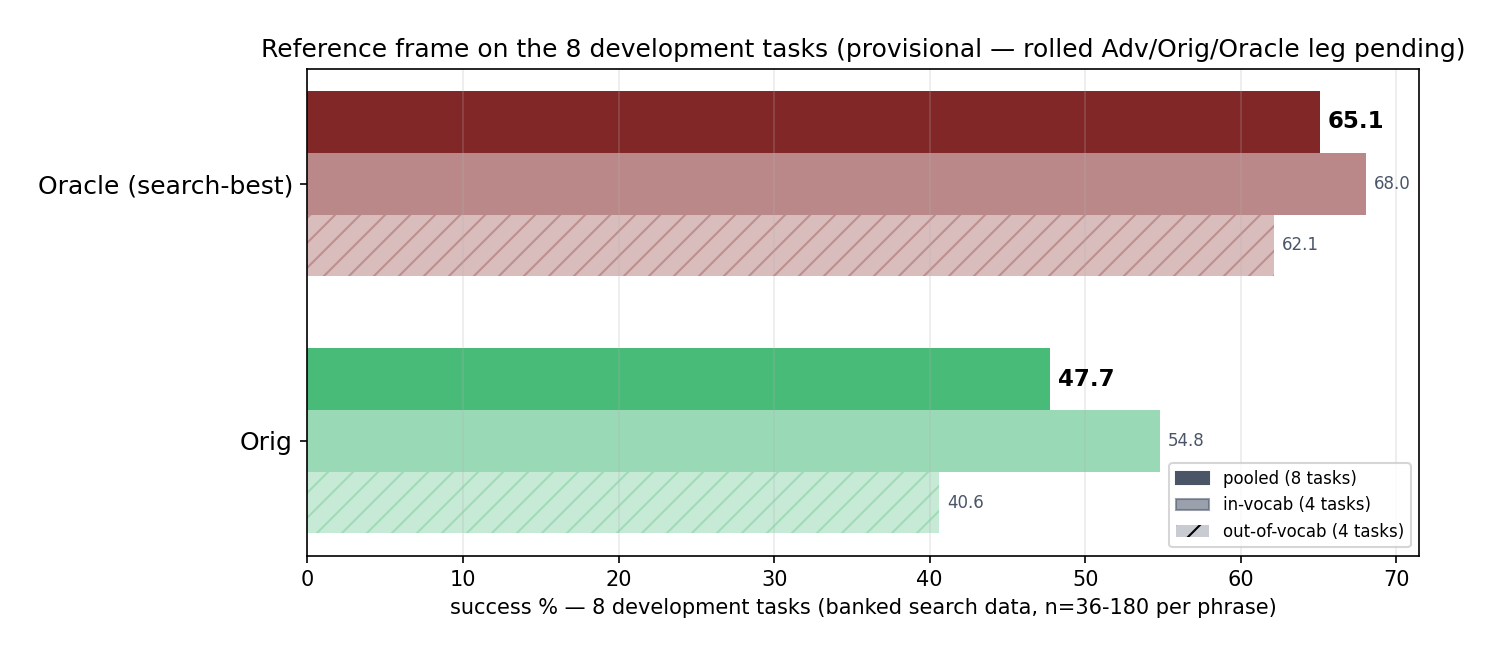
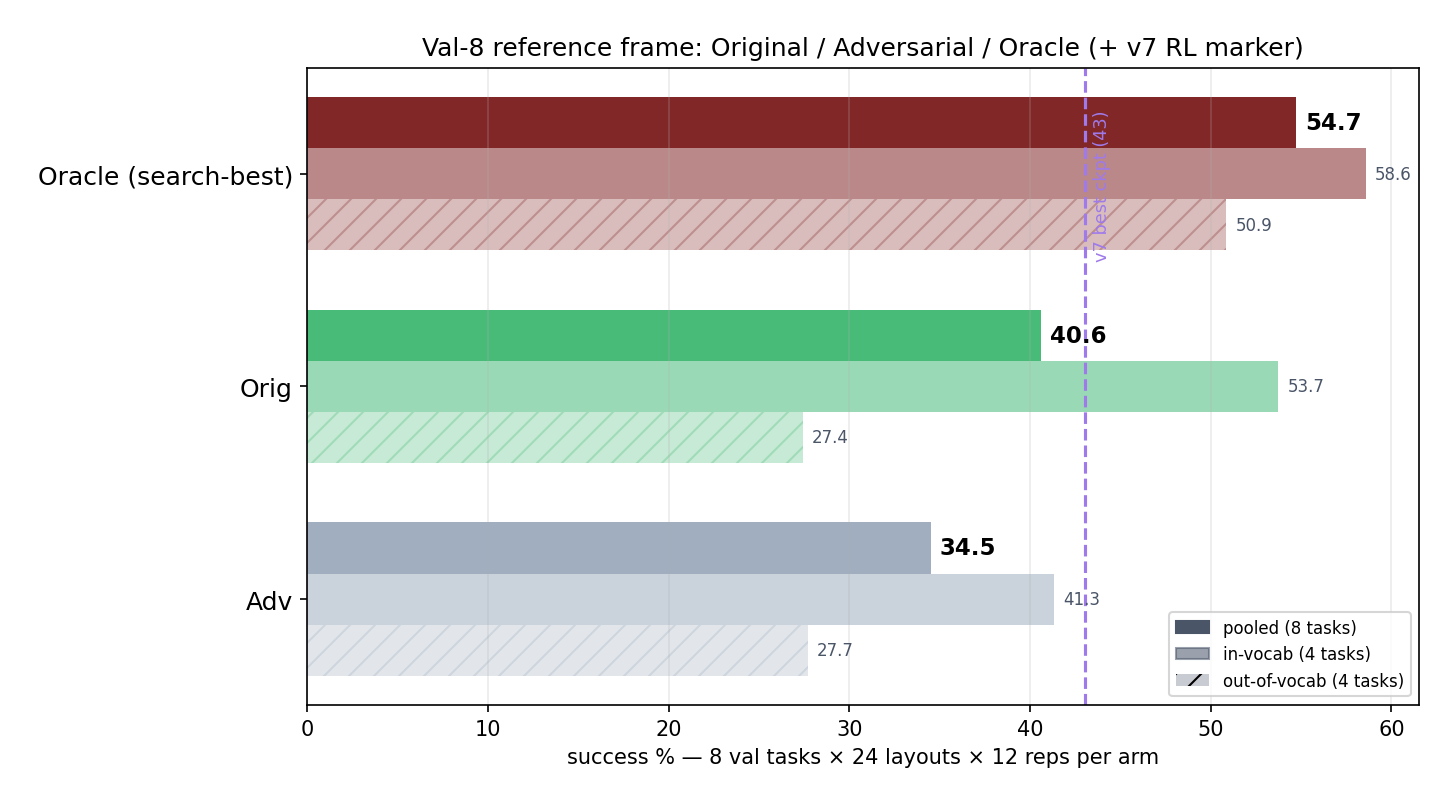
val-8 reference final: 3 rows at n=288 + v7 marker; provisional corrected

diff --git a/scripts/make_val8_reference.py b/scripts/make_val8_reference.py
@@ -1,68 +1,43 @@
 #!/usr/bin/env python3
-"""Val-8 reference chart (provisional, banked board data): Original phrasing vs
-Oracle (search-best) per stratum on the 8 development tasks — the comparison
-frame for RL rollout numbers. Mixed n (36-180) noted; the rolled reference leg
-(Orig+Adv+Oracle x 24x12) replaces this when it lands.
+"""Val-8 reference chart (ROLLED leg, n=288/task/arm): Original / Adversarial /
+Oracle on the 8 val tasks, strata split, with the v7 best-checkpoint marker.
+Reads results/sealed/val8_reference_x12.parquet + v7_dev8_backfill.jsonl.
 """
-import glob
 import json
 
 import matplotlib
 
 matplotlib.use("Agg")
 import matplotlib.pyplot as plt
+import pandas as pd
 from matplotlib.patches import Patch
 
-NOM = {"widowx_carrot_on_plate": "put carrot on plate",
-       "widowx_spoon_on_towel": "put the spoon on the towel",
-       "widowx_stack_cube": "stack the green block on the yellow block",
-       "widowx_put_eggplant_in_basket": "put eggplant into yellow basket",
-       "widowx_carrot_on_keyboard": "put carrot on keyboard",
-       "widowx_carrot_on_wheel": "put carrot on wheel",
-       "widowx_coke_can_on_ramekin": "put coke can on ramekin",
-       "widowx_coke_can_on_plate": "put coke can on plate"}
 IV = ["widowx_carrot_on_plate", "widowx_spoon_on_towel", "widowx_stack_cube",
       "widowx_put_eggplant_in_basket"]
-OO = [t for t in NOM if t not in IV]
-KEYMAP = {"spoon": "widowx_spoon_on_towel", "stack": "widowx_stack_cube",
-          "carrotplate": "widowx_carrot_on_plate", "eggplant": "widowx_put_eggplant_in_basket",
-          "keyboard": "widowx_carrot_on_keyboard", "wheel": "widowx_carrot_on_wheel",
-          "ramekin": "widowx_coke_can_on_ramekin", "cokeplate": "widowx_coke_can_on_plate"}
 
-boards = {}
-for f in sorted(glob.glob("results/search/*_results.json")):
-    base = f.split("/")[-1]
-    if base.startswith("sealedsearch"):
-        continue
-    key = next((k for k in KEYMAP if base.startswith(k)), None)
-    if key is None:
-        continue
-    t = KEYMAP[key]
-    for e in json.load(open(f)).get("scoreboard", []):
-        p = e["phrase"].strip()
-        boards.setdefault(t, {})
-        if p not in boards[t] or e.get("n", 0) > boards[t][p][1]:
-            boards[t][p] = (e["success_pct"], e.get("n", 0))
+d = pd.read_parquet("results/sealed/val8_reference_x12.parquet")
+pt = d.groupby(["arm", "task"]).success.mean().unstack(0) * 100
 
-orig, orac = {}, {}
-for t, ph in boards.items():
-    nom = NOM[t].strip()
-    hit = next(((s, n) for p, (s, n) in ph.items() if p.lower() == nom.lower()), None)
-    orig[t] = hit
-    cands = [(s, n) for _, (s, n) in ph.items() if n >= 36]
-    orac[t] = max(cands) if cands else None
-    print(f"{t.replace('widowx_',''):26s} nominal {hit} | oracle {max(cands) if cands else None}")
 
-def strata(d):
-    vals = {k: v[0] for k, v in d.items() if v}
-    return (sum(vals.values()) / len(vals),
-            sum(vals[t] for t in IV if t in vals) / len([t for t in IV if t in vals]),
-            sum(vals[t] for t in OO if t in vals) / len([t for t in OO if t in vals]))
+def strata(arm):
+    s = pt[arm]
+    iv = s[[t for t in s.index if t in IV]].mean()
+    oo = s[[t for t in s.index if t not in IV]].mean()
+    return s.mean(), iv, oo
 
-rows = [("Oracle (search-best)", strata(orac), "#822727"),
-        ("Orig", strata(orig), "#48bb78")]
-fig, ax = plt.subplots(figsize=(9.5, 4.2))
-y = [1, 0]
+
+rows = [("Oracle (search-best)", strata("val8_oracle"), "#822727"),
+        ("Orig", strata("val8_orig"), "#48bb78"),
+        ("Adv", strata("val8_adv"), "#a0aec0")]
+
+try:
+    bf = [json.loads(l) for l in open("results/analysis/v7_dev8_backfill.jsonl")]
+    v7best = max(r["pooled"] for r in bf)
+except Exception:
+    v7best = None
+
+fig, ax = plt.subplots(figsize=(9.5, 5.2))
+y = [2, 1, 0]
 h = 0.24
 for yi, (label, (pool, iv, oo), color) in zip(y, rows):
     ax.barh(yi + h, pool, h, color=color)
@@ -71,14 +46,19 @@ for yi, (label, (pool, iv, oo), color) in zip(y, rows):
     ax.text(pool + 0.5, yi + h, f"{pool:.1f}", va="center", fontsize=11, fontweight="bold")
     ax.text(iv + 0.5, yi, f"{iv:.1f}", va="center", fontsize=8, color="#4a5568")
     ax.text(oo + 0.5, yi - h, f"{oo:.1f}", va="center", fontsize=8, color="#4a5568")
+    print(f"{label:22s} pooled {pool:5.1f}  in-vocab {iv:5.1f}  out-of-vocab {oo:5.1f}")
 ax.set_yticks(y)
 ax.set_yticklabels([r[0] for r in rows], fontsize=12)
+if v7best is not None:
+    ax.axvline(v7best, ls="--", color="#9f7aea", lw=1.5)
+    ax.text(v7best + 0.4, 2.3, f"v7 best ckpt ({v7best:.0f})", color="#9f7aea",
+            fontsize=8.5, rotation=90, va="top")
 ax.legend(handles=[Patch(color="#4a5568", label="pooled (8 tasks)"),
                    Patch(color="#4a5568", alpha=0.55, label="in-vocab (4 tasks)"),
                    Patch(facecolor="#4a5568", alpha=0.3, hatch="//", label="out-of-vocab (4 tasks)")],
           loc="lower right", fontsize=8)
-ax.set_xlabel("success % — 8 development tasks (banked search data, n=36-180 per phrase)")
-ax.set_title("Reference frame on the 8 development tasks (provisional — rolled Adv/Orig/Oracle leg pending)")
+ax.set_xlabel("success % — 8 val tasks × 24 layouts × 12 reps per arm")
+ax.set_title("Val-8 reference frame: Original / Adversarial / Oracle (+ v7 RL marker)")
 ax.grid(axis="x", alpha=0.25)
 fig.tight_layout()
 fig.savefig("results/charts/val8_reference.png", dpi=150, bbox_inches="tight", pad_inches=0.25)

diff --git a/EXPERIMENT.md b/EXPERIMENT.md
@@ -2068,3 +2068,16 @@ Final point confirms the gate: greedy DECLINED over the run (56.8 -> 55.2) and
 the step-75 sampled convergence partially reverted (56.25 -> 51.0; partly
 noise). v7b complete record: 100 steps, 4x policy movement, rollout flat-to-
 down. Beta verdict stands.
+
+## 2026-07-28 — Val-8 reference leg LANDS (n=288/task/arm) + CORRECTION
+Rolled reference (pod6): Oracle 54.7 (58.6 iv / 50.9 oov), Original 40.6
+(53.7 / 27.4), Adversarial 34.5 (41.3 / 27.7). CORRECTS the banked provisional
+(Orig 47.7 / Oracle 65.1 — board estimates were winner/mix biased, regressed
+at full n exactly like the sealed confirm round taught). CORRECTION to the
+prior read: v7 best checkpoints (42.2-43.1 val-8 pooled) sit +1.6..+2.5 ABOVE
+the true Original (40.6), not below the provisional 47.7 — v7 modestly beats
+nominal on val-8, ~12pp below Oracle. Other findings: Adv costs -6.1 pooled but
+~0 on OOV (27.7 vs 27.4 — can't break what's already broken; all Adv damage is
+in-vocab -12.4). Star datum: ramekin Adv 66.7 vs Orig 11.1 — the ERT attack
+accidentally performs the corpus-absence rename ("white ceramic dish") and
+SEXTUPLES the nominal: the rename law confirmed from a hostile direction.
